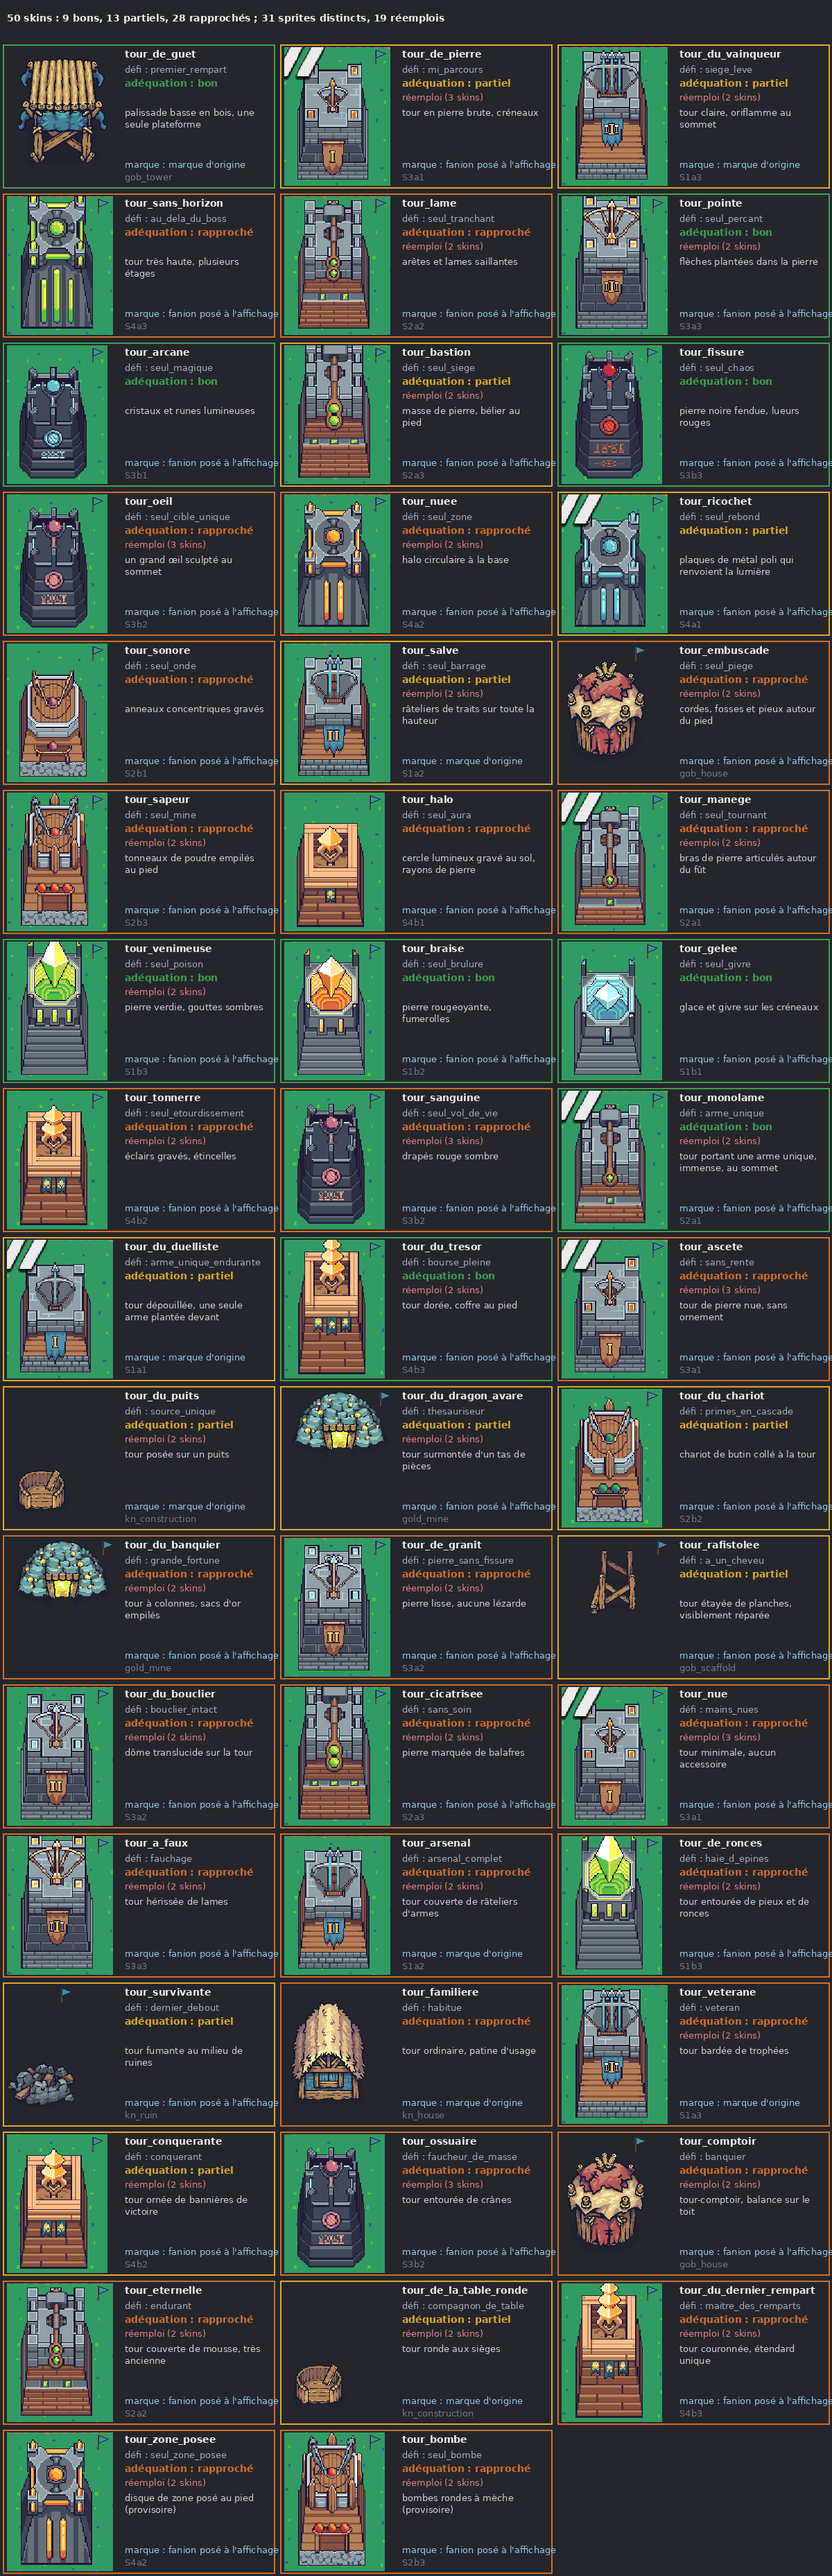
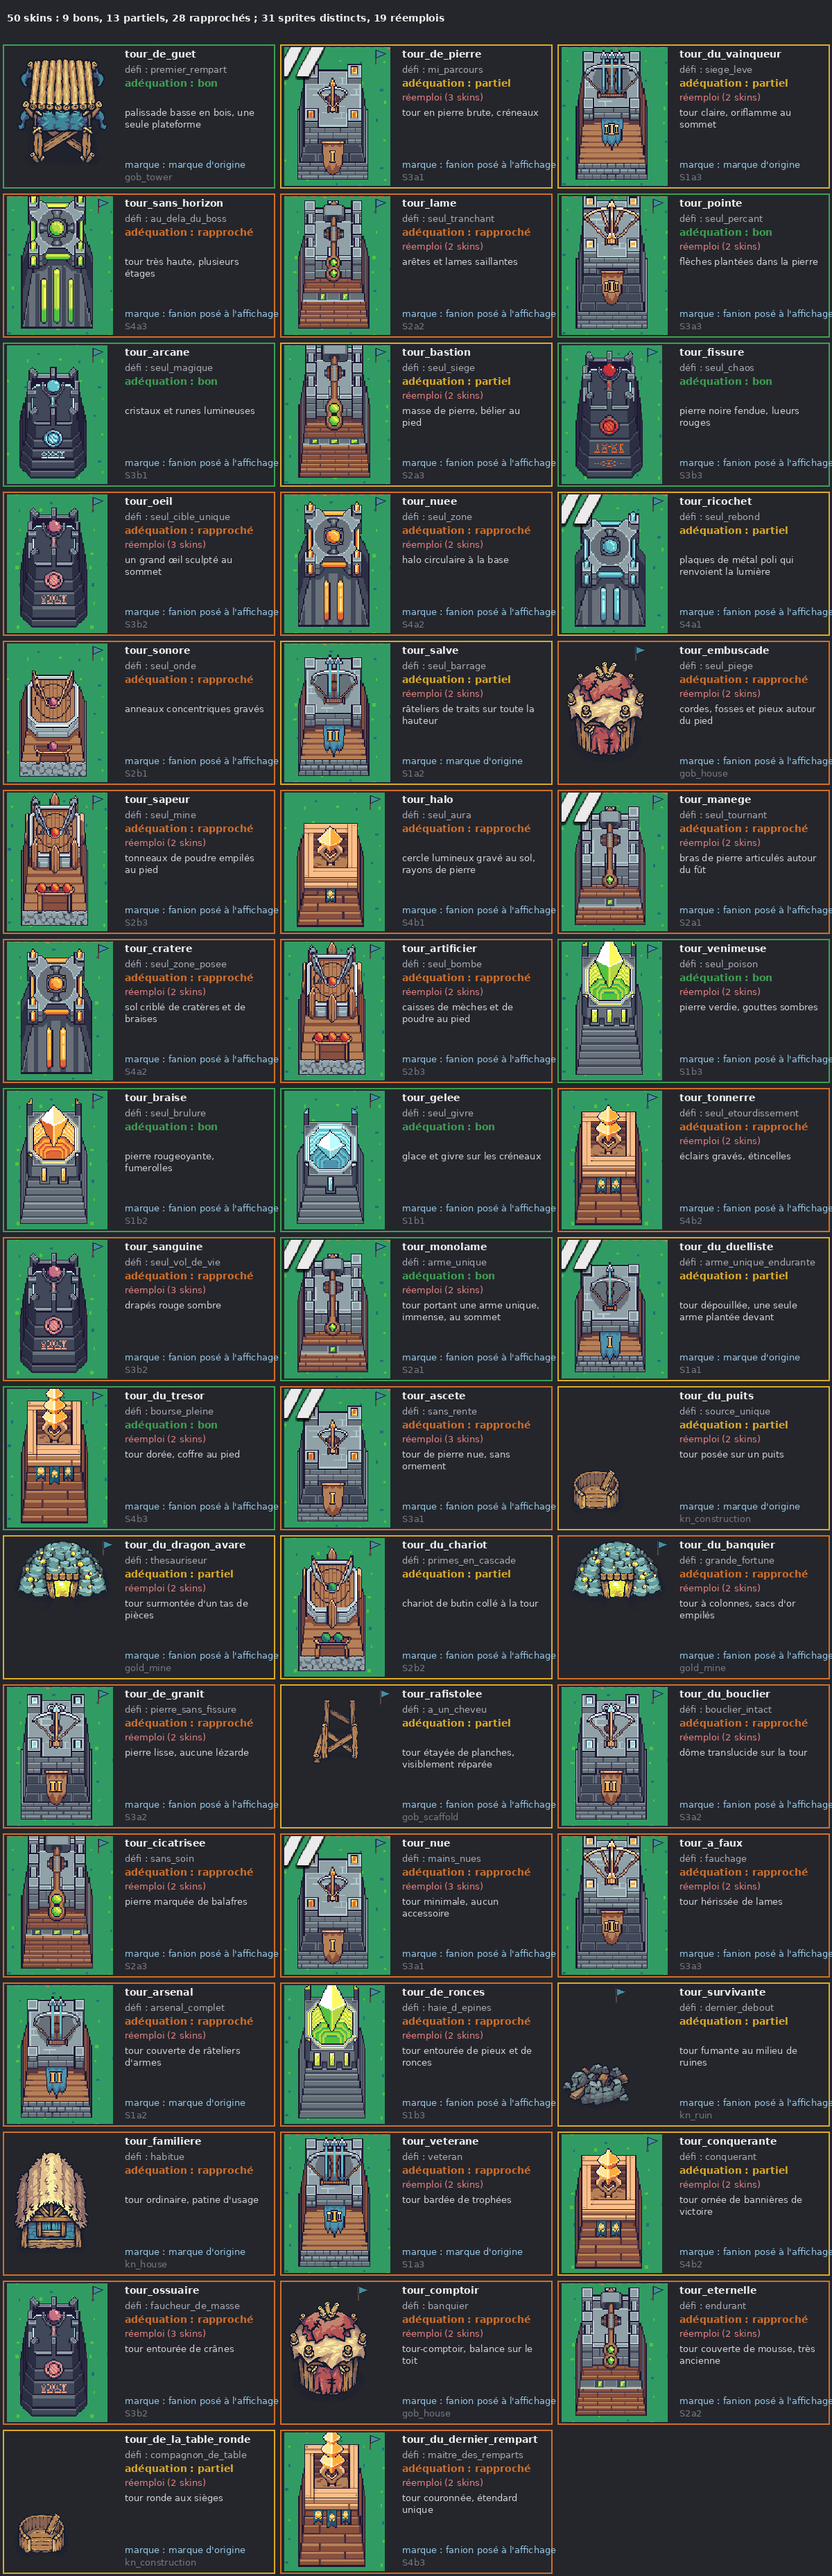
Renomme les skins de zone posée et de bombe d'après docs/defis.md (tour_cratere, tour_artificier)
Claude-Session: https://claude.ai/code/session_01FhwUocNB4KxPhh9vjGS8nS

diff --git a/docs/skins/generer_planche.py b/docs/skins/generer_planche.py
@@ -75,14 +75,9 @@ CHOIX = {
     "tour_eternelle": ("S2a2", "R"),
     "tour_de_la_table_ronde": ("kn_construction", "P"),
     "tour_du_dernier_rempart": ("S4b3", "R"),
-    "tour_zone_posee": ("S4a2", "R"),
-    "tour_bombe": ("S2b3", "R"),
+    "tour_cratere": ("S4a2", "R"),
+    "tour_artificier": ("S2b3", "R"),
 }
-# Skins dont le défi n'est pas encore dans docs/defis.md (PR #85) : identifiants provisoires.
-PROVISOIRES = [
-    ("seul_zone_posee", "tour_zone_posee", "disque de zone posé au pied (provisoire)"),
-    ("seul_bombe", "tour_bombe", "bombes rondes à mèche (provisoire)"),
-]
 COUL = {"B": (60, 160, 80), "P": (220, 170, 40), "R": (210, 110, 40)}
 LIB = {"B": "bon", "P": "partiel", "R": "rapproché"}
 
@@ -93,7 +88,7 @@ def lire_skins() -> list[tuple[str, str, str]]:
     return [
         (m[0], m[1], m[2].strip())
         for m in re.findall(r"^\| `(\w+)`\s*\| `(\w+)`\s*\| (.+?)\s*\|$", section, re.M)
-    ] + PROVISOIRES
+    ]
 
 
 def image(cle: str) -> Image.Image:
